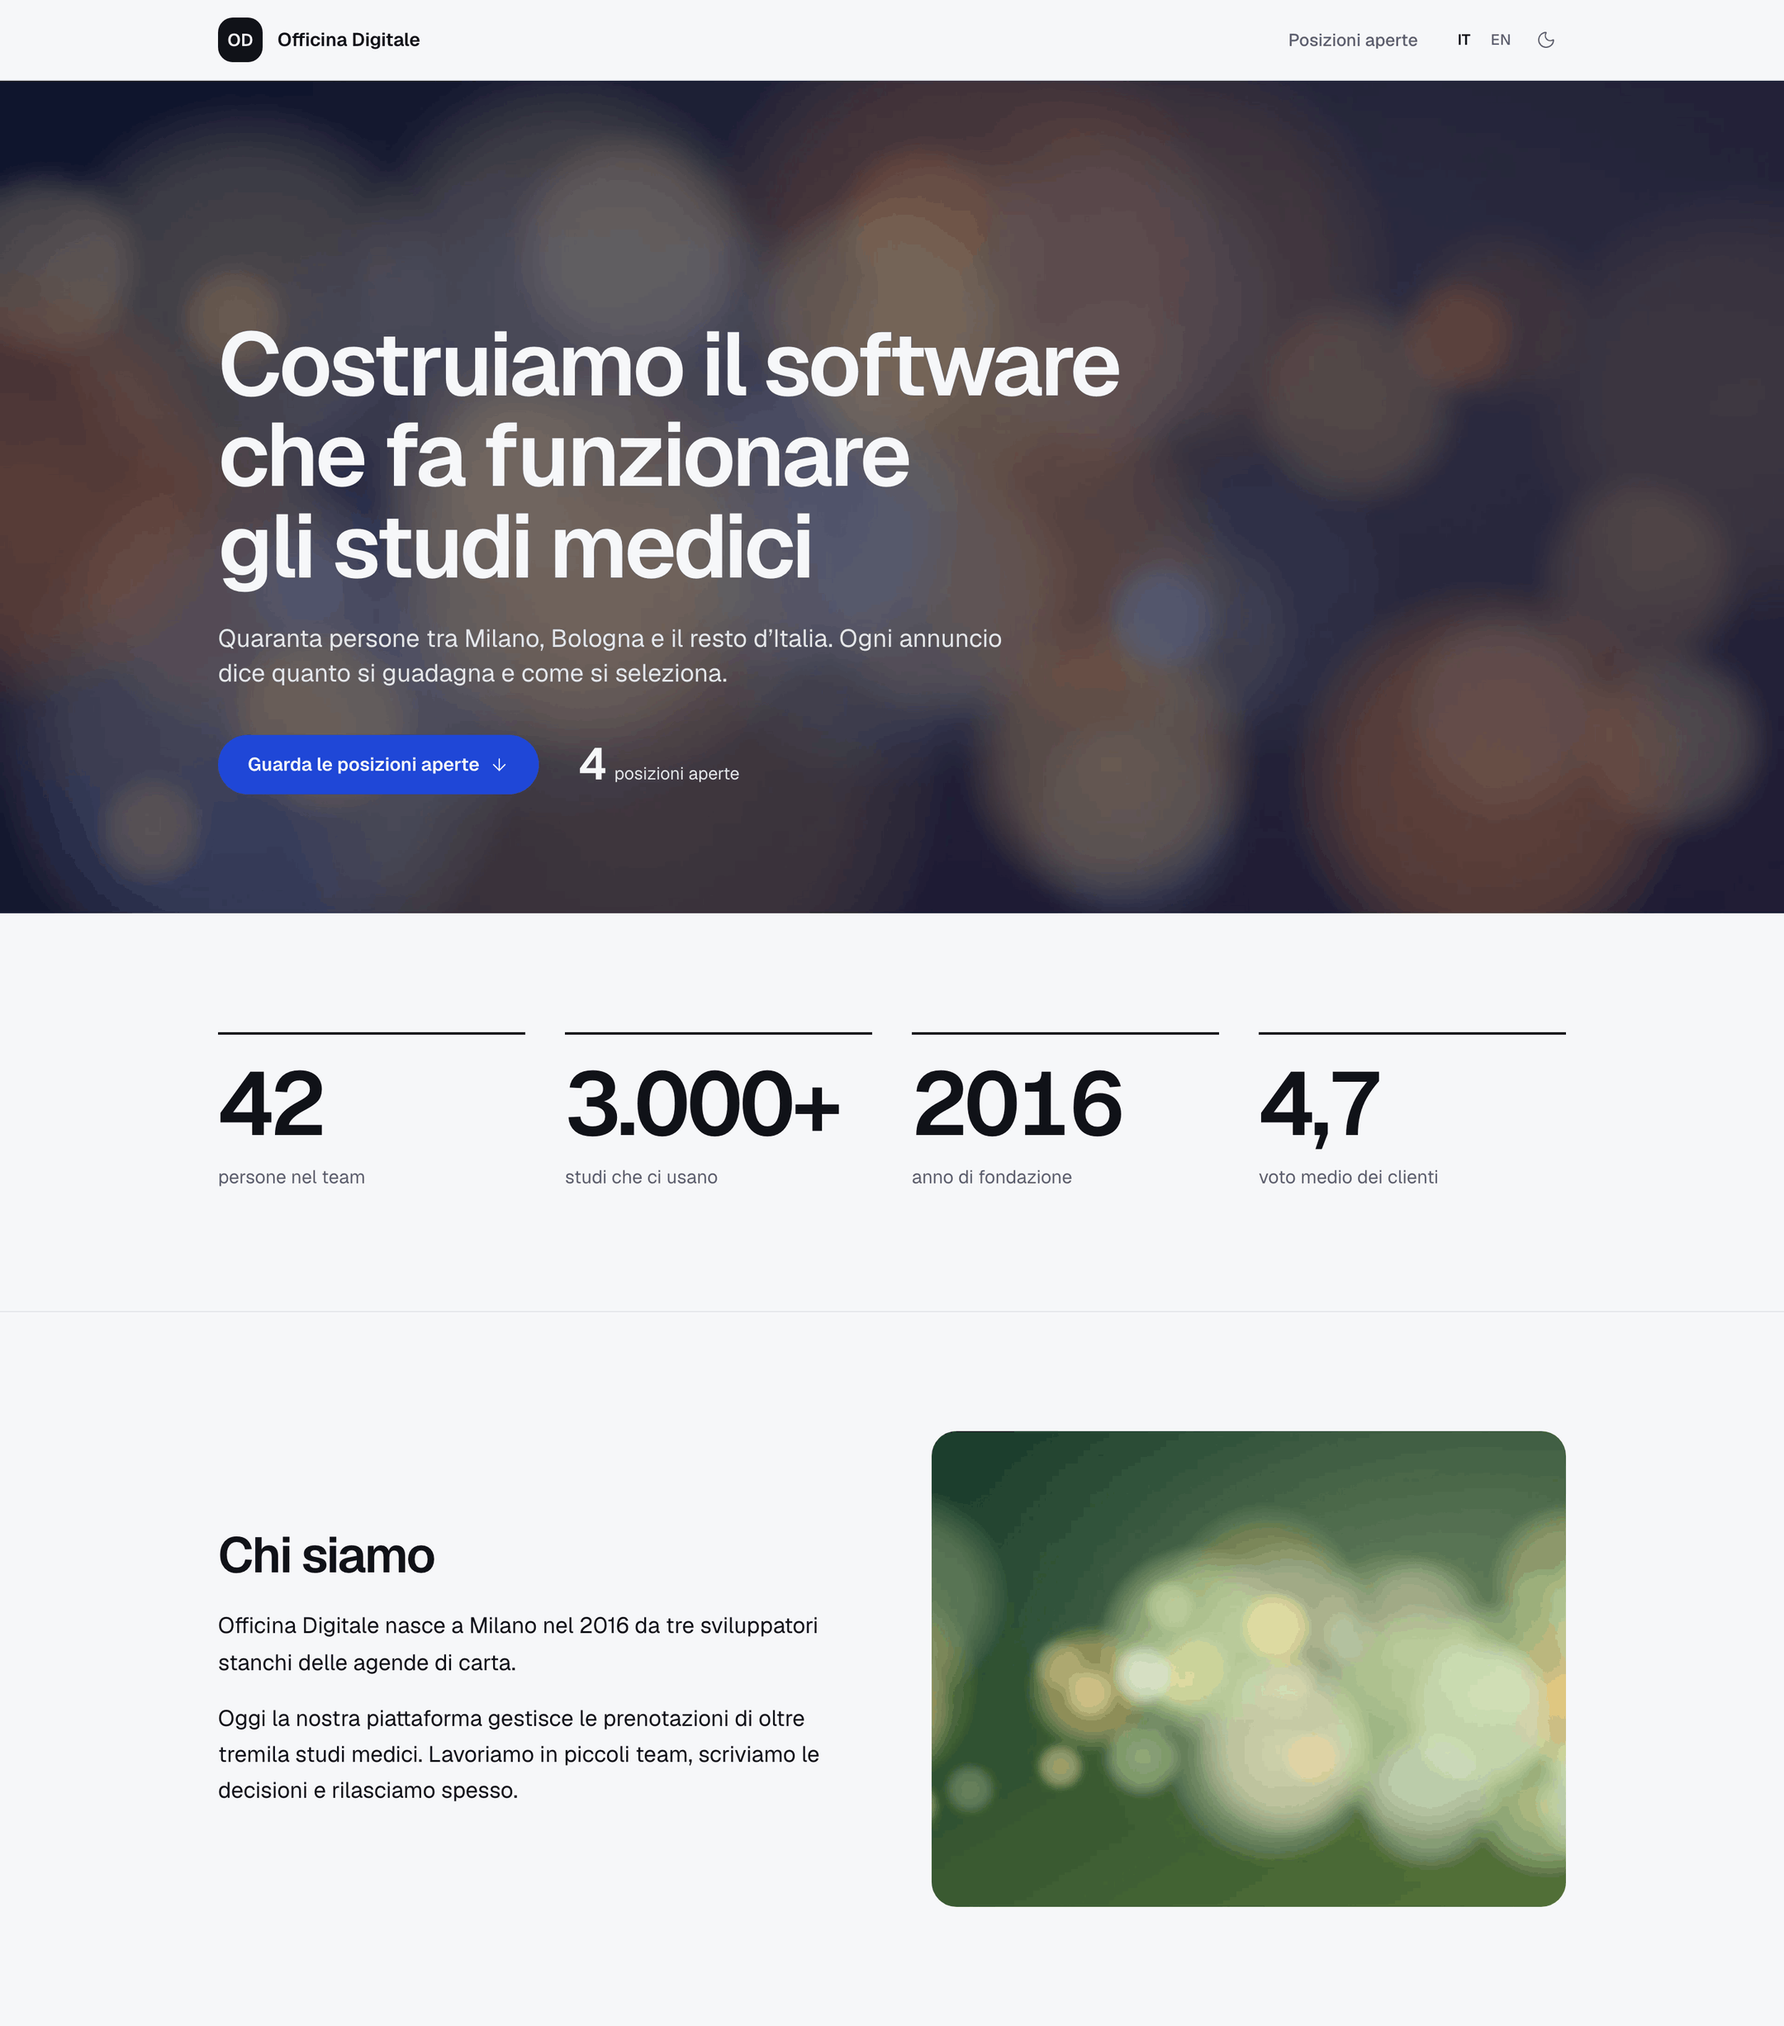
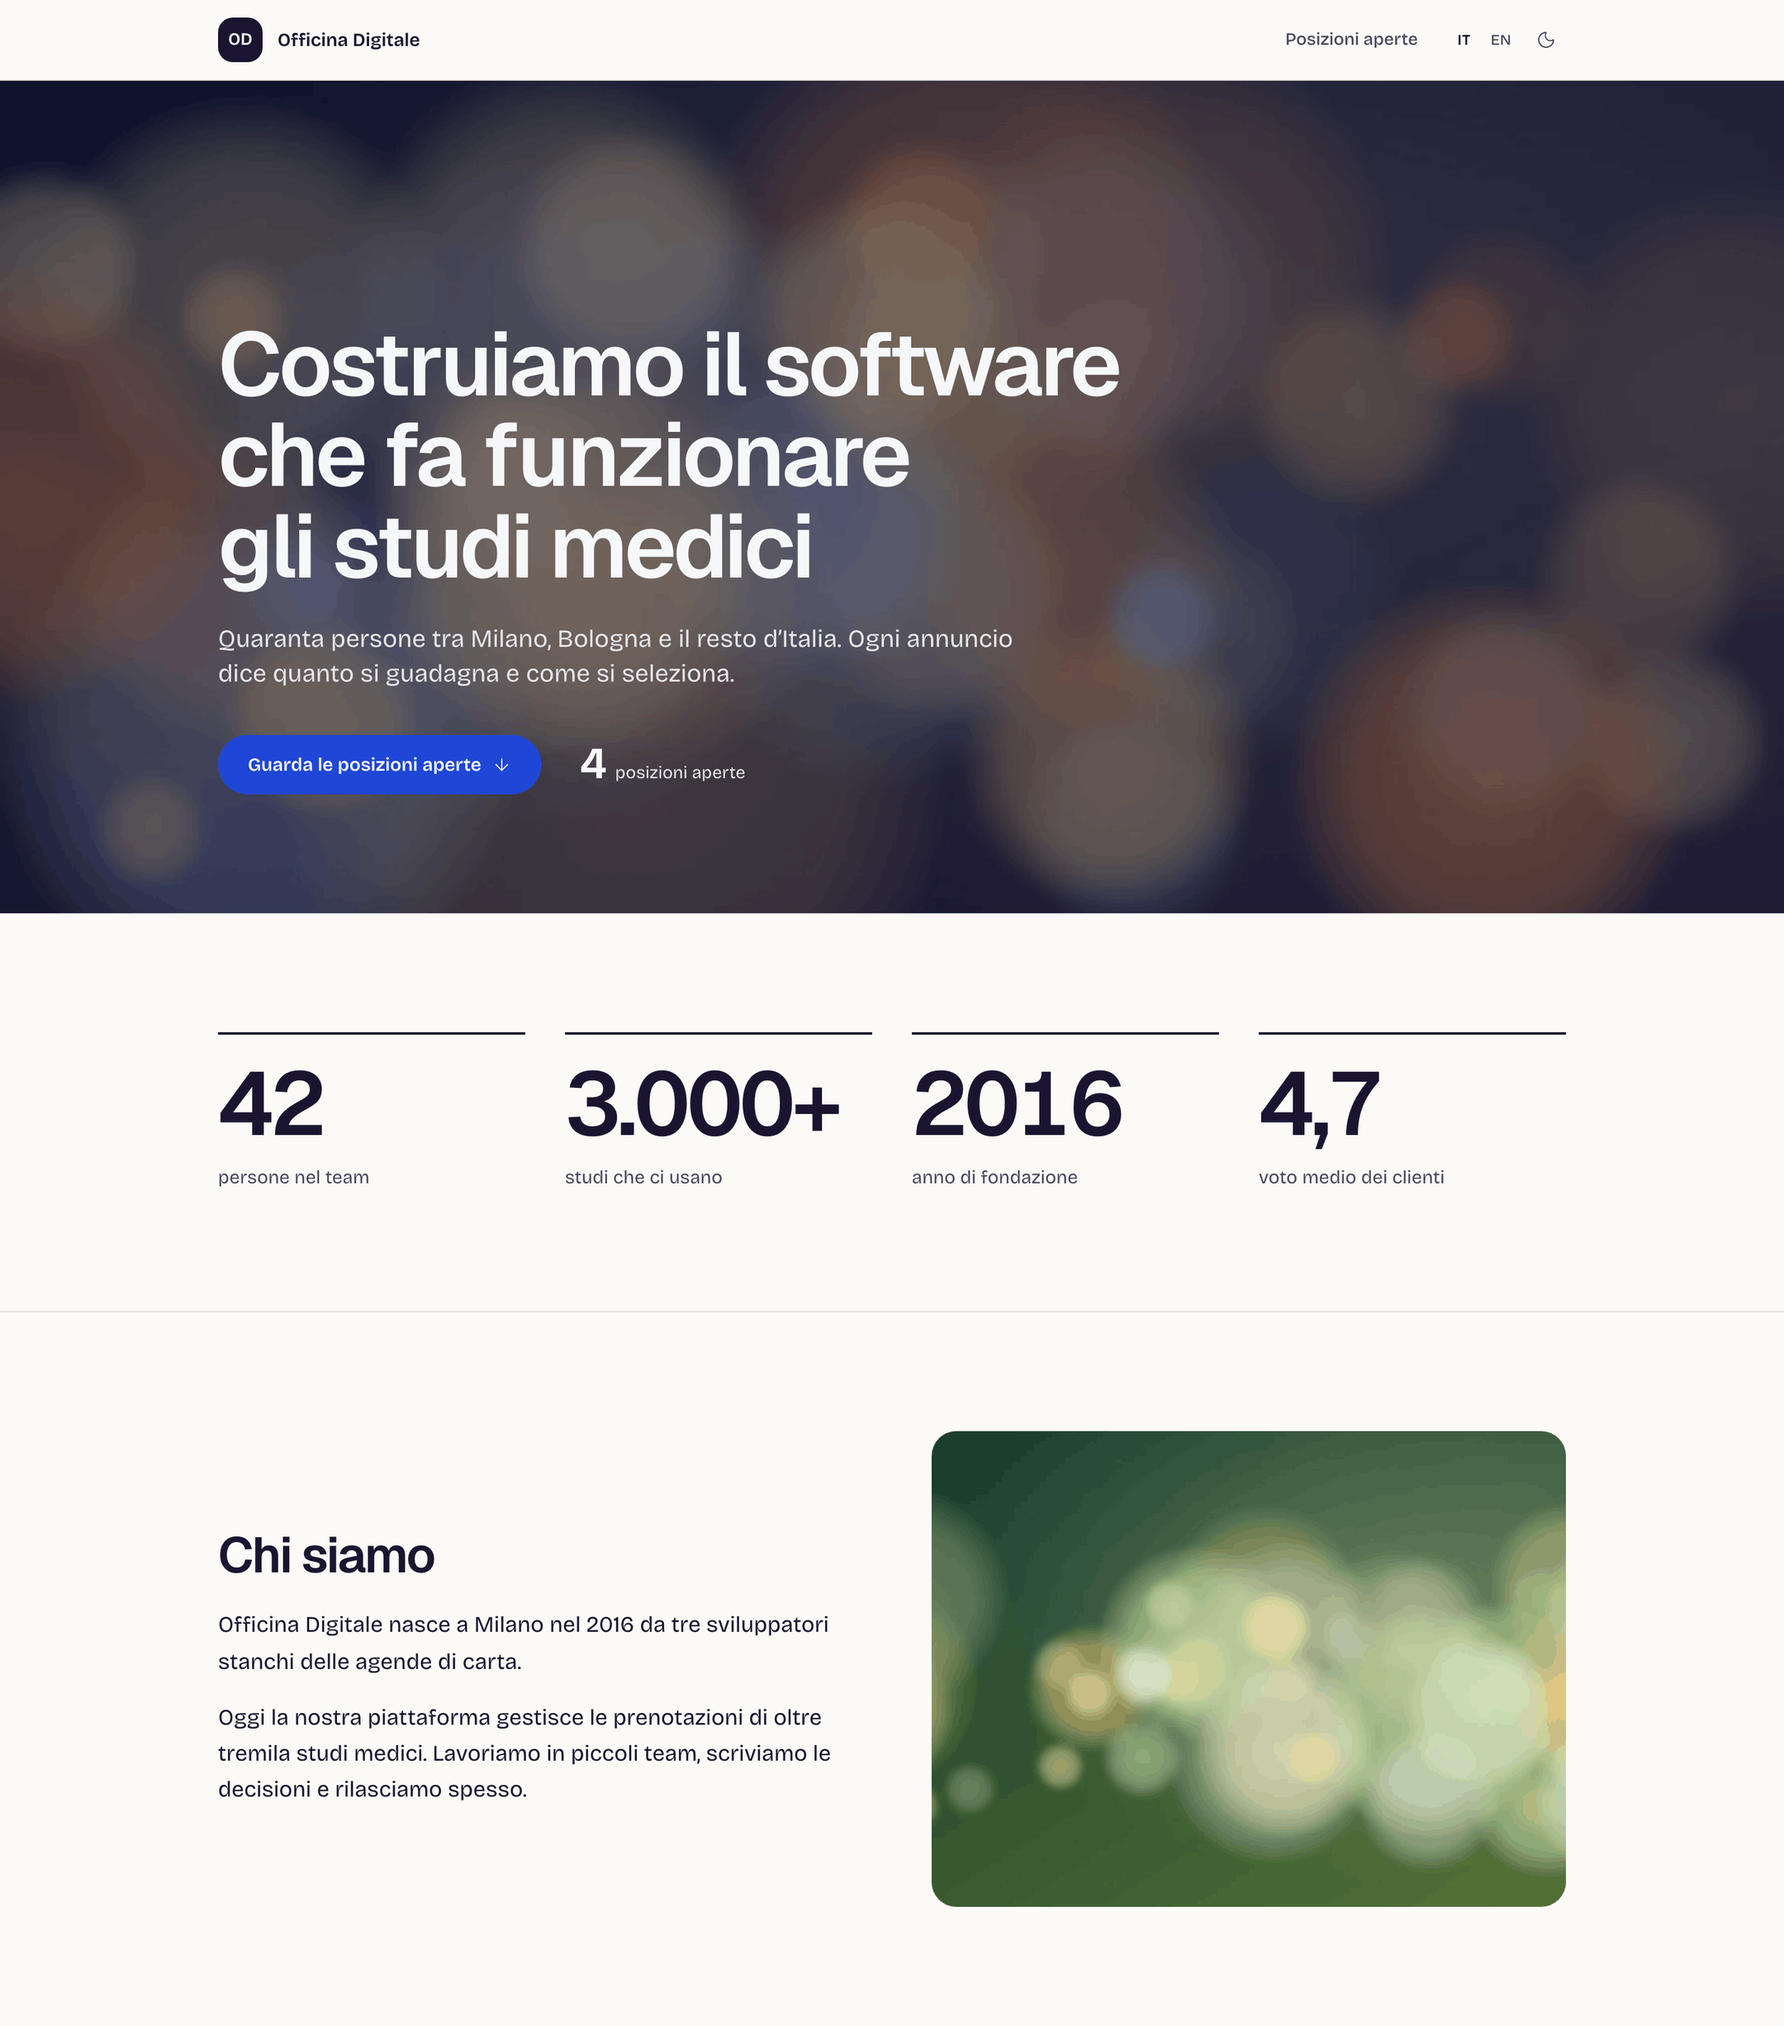
fix: response sticker in the card footer, README screenshots
The sticker sat next to the name and truncated the headline, and its caption
overflowed the circle. It now sits at the right end of the card footer, 60px,
with a smaller caption. README screenshots regenerated with the new identity.

diff --git a/apps/web/app/components/pipeline/CandidateCard.vue b/apps/web/app/components/pipeline/CandidateCard.vue
@@ -88,7 +88,6 @@ const answered = computed(() => effectiveResponseState(props.card, props.now) ==
         </h3>
         <p v-if="card.candidate.headline" class="truncate text-sm text-muted-foreground">{{ card.candidate.headline }}</p>
       </div>
-      <ResponseSticker :application="card" :now="now" class="-my-1" />
       <CardMenu :name="name" :stages="stages" :stage-id="card.stageId" :can-move="canMove" :can-decide="canDecide" :decided="decided" @open="emit('open')" @move="emit('move', $event)" @decide="emit('decide', $event)" />
     </div>
 
@@ -121,6 +120,8 @@ const answered = computed(() => effectiveResponseState(props.card, props.now) ==
         <span class="sr-only">{{ t('pipeline.card.notes', { count: card.noteCount }, card.noteCount) }}</span>
         <span class="figure" aria-hidden="true">{{ card.noteCount }}</span>
       </span>
+      <!-- In the footer, not next to the name: the name and headline keep their full width; it overlaps the rule above. -->
+      <ResponseSticker :application="card" :now="now" class="-mt-7 -mb-1" />
     </div>
   </article>
 </template>

diff --git a/apps/web/app/components/response/ResponseSticker.vue b/apps/web/app/components/response/ResponseSticker.vue
@@ -26,12 +26,12 @@ const title = computed(() => (props.application.responseDueAt ? t('response.dueA
     role="img"
     :aria-label="label"
     :title="title"
-    class="figure flex size-[3.375rem] shrink-0 -rotate-8 flex-col items-center justify-center gap-0.5 rounded-full border-2 border-ink leading-none select-none"
+    class="figure flex size-[3.75rem] shrink-0 -rotate-8 flex-col items-center justify-center gap-0.5 rounded-full border-2 border-ink leading-none select-none"
     :class="TONES[sticker.state]"
     :data-state="sticker.state"
     data-testid="response-sticker"
   >
     <span class="text-lg font-extrabold tracking-tight" aria-hidden="true">{{ t(sticker.figureKey, { count: sticker.count }) }}</span>
-    <span class="text-[0.625rem] font-bold" aria-hidden="true">{{ t(sticker.captionKey) }}</span>
+    <span class="text-[0.5625rem] font-bold tracking-tight" aria-hidden="true">{{ t(sticker.captionKey) }}</span>
   </span>
 </template>

diff --git a/docs/DESIGN-SYSTEM.md b/docs/DESIGN-SYSTEM.md
@@ -143,7 +143,7 @@ App components: `AppPage` (top bar plus main column), `AppTopBar`, `AppBreadcrum
 
 The signature element. Two forms, both round with a 2px ink outline, rotated (static, not animated), with ink text:
 
-- **`ResponseSticker`** (`components/response/`, logic in `lib/response-sticker.ts`): on a pipeline card, 54px, rotated -8 degrees. It shows the days left as a big figure ("5g" / "5d") over "risposta" / "reply"; "oggi" / "today" on the last day; "!" over "ritardo" / "late" once overdue. **White** (`card`) on track, **yellow** (`highlight`) within 48 hours (`DUE_SOON_HOURS`), **coral** (`alert`) when overdue. The words change with the state, so colour is never the only signal; it is `role="img"` with the full sentence as `aria-label` ("Risposta entro 5 giorni", "In ritardo di 2 giorni") and the promised date as `title`. Nothing is shown once answered (the card footer keeps a quiet "Risposto") or closed.
+- **`ResponseSticker`** (`components/response/`, logic in `lib/response-sticker.ts`): on a pipeline card, 60px, rotated -8 degrees, at the right end of the card footer overlapping its top rule (never next to the name, which keeps its full width). It shows the days left as a big figure ("5g" / "5d") over "risposta" / "reply"; "oggi" / "today" on the last day; "!" over "ritardo" / "late" once overdue. **White** (`card`) on track, **yellow** (`highlight`) within 48 hours (`DUE_SOON_HOURS`), **coral** (`alert`) when overdue. The words change with the state, so colour is never the only signal; it is `role="img"` with the full sentence as `aria-label` ("Risposta entro 5 giorni", "In ritardo di 2 giorni") and the promised date as `title`. Nothing is shown once answered (the card footer keeps a quiet "Risposto") or closed.
 
 `ResponsePill` stays for lists (attention, candidate detail), with the same colours: neutral on track, `highlight` when due soon, `alert` when late.
 
